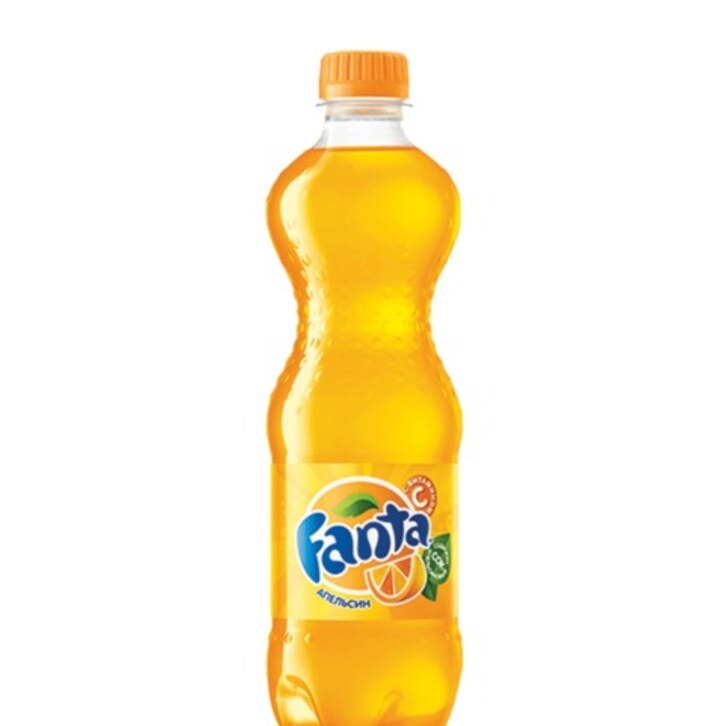
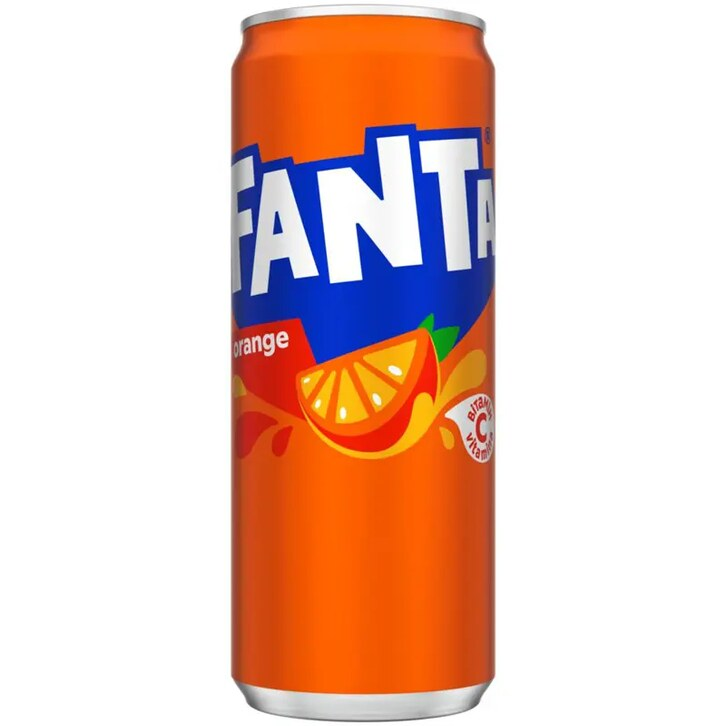
Replace Fanta photo with can version
Claude-Session: https://claude.ai/code/session_018VN7Wd7HaKX8brqRxcmYgB

diff --git a/index.html b/index.html
@@ -337,7 +337,7 @@
     </div>
   </aside>
 
-  <script src="script.js?v=65" defer></script>
+  <script src="script.js?v=66" defer></script>
   <script>
   (function () {
     var visual = document.querySelector('.hero-visual');
